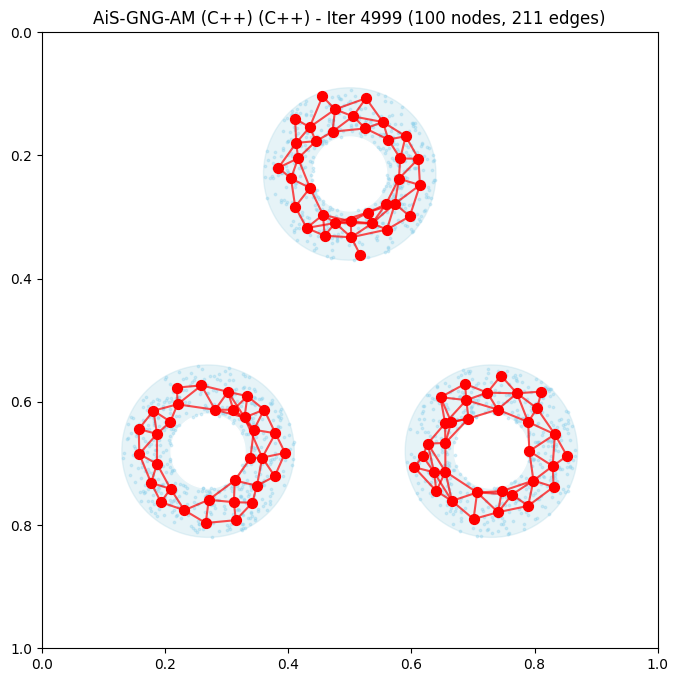
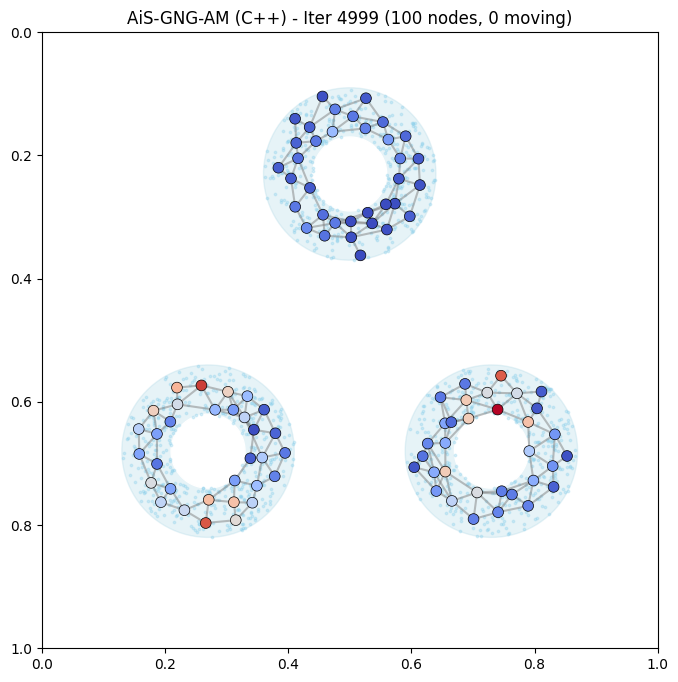
Fix AiS-GNG-AM visualization and reorganize README layout
- Add visualize_am.py for movement-colored node visualization
- Regenerate AiS-GNG-AM C++ GIF with movement colors (blue=static, red=moving)
- Reorganize README: separate sections for each variant with Python/C++/Tracking layout

https://claude.ai/code/session_017b5qWg6pcPoRsVDBckwGdS

diff --git a/experiments/2d_visualization/cpp/visualize_am.py b/experiments/2d_visualization/cpp/visualize_am.py
@@ -1,0 +1,182 @@
+"""Visualize AiS-GNG-AM results with movement-colored nodes.
+
+Nodes are colored by their Amount of Movement (AM):
+- Blue = static nodes (low AM)
+- Red = moving nodes (high AM)
+"""
+
+import argparse
+from pathlib import Path
+
+import matplotlib.pyplot as plt
+import numpy as np
+import pandas as pd
+from PIL import Image
+
+
+def load_samples(path: Path) -> np.ndarray:
+    """Load sample points from CSV."""
+    df = pd.read_csv(path)
+    return df[["x", "y"]].values
+
+
+def load_nodes_with_movement(path: Path) -> tuple[np.ndarray, np.ndarray]:
+    """Load node positions and movement values from CSV."""
+    if not path.exists():
+        return np.array([]).reshape(0, 2), np.array([])
+    df = pd.read_csv(path)
+    if len(df) == 0:
+        return np.array([]).reshape(0, 2), np.array([])
+
+    positions = df[["x", "y"]].values
+    if "movement" in df.columns:
+        movements = df["movement"].values
+    else:
+        movements = np.zeros(len(df))
+    return positions, movements
+
+
+def load_edges(path: Path) -> list[tuple[int, int]]:
+    """Load edge list from CSV."""
+    if not path.exists():
+        return []
+    df = pd.read_csv(path)
+    return [(int(row["i"]), int(row["j"])) for _, row in df.iterrows()]
+
+
+def create_frame_am(
+    ax,
+    samples: np.ndarray,
+    nodes: np.ndarray,
+    movements: np.ndarray,
+    edges: list[tuple[int, int]],
+    iteration: int,
+    algorithm: str = "AiS-GNG-AM",
+) -> None:
+    """Create a frame with movement-colored nodes."""
+    ax.clear()
+
+    # Draw triple ring background
+    theta = np.linspace(0, 2 * np.pi, 100)
+    rings = [
+        (0.50, 0.23, 0.06, 0.14),
+        (0.27, 0.68, 0.06, 0.14),
+        (0.73, 0.68, 0.06, 0.14),
+    ]
+    for cx, cy, r_inner, r_outer in rings:
+        outer_x = cx + r_outer * np.cos(theta)
+        outer_y = cy + r_outer * np.sin(theta)
+        inner_x = cx + r_inner * np.cos(theta)
+        inner_y = cy + r_inner * np.sin(theta)
+        ax.fill(outer_x, outer_y, color="lightblue", alpha=0.3)
+        ax.fill(inner_x, inner_y, color="white")
+
+    # Plot sample points
+    ax.scatter(samples[:, 0], samples[:, 1], c="skyblue", s=3, alpha=0.3)
+
+    # Plot edges (gray for AM visualization)
+    for i, j in edges:
+        if i < len(nodes) and j < len(nodes):
+            ax.plot(
+                [nodes[i, 0], nodes[j, 0]],
+                [nodes[i, 1], nodes[j, 1]],
+                color="gray",
+                linewidth=1.5,
+                alpha=0.5,
+            )
+
+    # Plot nodes colored by movement
+    if len(nodes) > 0:
+        if len(movements) > 0 and movements.max() > 0:
+            norm_movements = movements / max(movements.max(), 0.001)
+        else:
+            norm_movements = np.zeros(len(nodes))
+
+        scatter = ax.scatter(
+            nodes[:, 0], nodes[:, 1],
+            c=norm_movements,
+            cmap="coolwarm",
+            s=60,
+            zorder=5,
+            edgecolors="black",
+            linewidths=0.5,
+            vmin=0,
+            vmax=1,
+        )
+
+    n_moving = np.sum(movements > 0.005) if len(movements) > 0 else 0
+    ax.set_xlim(0, 1)
+    ax.set_ylim(1, 0)
+    ax.set_aspect("equal")
+    ax.set_title(f"{algorithm} (C++) - Iter {iteration} ({len(nodes)} nodes, {n_moving} moving)")
+
+
+def visualize_am(
+    input_dir: str,
+    output_gif: str,
+    output_png: str | None = None,
+    algorithm: str = "AiS-GNG-AM",
+) -> None:
+    """Create visualization with movement colors."""
+    input_path = Path(input_dir)
+
+    samples = load_samples(input_path / "samples.csv")
+    frames_df = pd.read_csv(input_path / "frames.csv")
+    frame_iterations = frames_df["iteration"].tolist()
+
+    fig, ax = plt.subplots(figsize=(8, 8), facecolor="white")
+    frames = []
+
+    for iteration in frame_iterations:
+        suffix = f"{iteration:05d}"
+        nodes, movements = load_nodes_with_movement(input_path / f"nodes_{suffix}.csv")
+        edges = load_edges(input_path / f"edges_{suffix}.csv")
+
+        create_frame_am(ax, samples, nodes, movements, edges, iteration, algorithm)
+        fig.canvas.draw()
+
+        img = Image.frombuffer(
+            "RGBA", fig.canvas.get_width_height(), fig.canvas.buffer_rgba()
+        )
+        frames.append(img.convert("RGB"))
+
+        if iteration % 1000 == 0 or iteration == frame_iterations[-1]:
+            print(f"Rendered frame at iteration {iteration}")
+
+    plt.close(fig)
+
+    if frames:
+        frames[0].save(
+            output_gif,
+            save_all=True,
+            append_images=frames[1:],
+            duration=100,
+            loop=0,
+        )
+        print(f"Saved GIF: {output_gif}")
+
+    if output_png:
+        final_nodes, final_movements = load_nodes_with_movement(input_path / "final_nodes.csv")
+        final_edges = load_edges(input_path / "final_edges.csv")
+
+        fig, ax = plt.subplots(figsize=(8, 8), facecolor="white")
+        create_frame_am(ax, samples, final_nodes, final_movements, final_edges,
+                       frame_iterations[-1], algorithm)
+        fig.savefig(output_png, dpi=100, bbox_inches="tight", facecolor="white")
+        plt.close(fig)
+        print(f"Saved PNG: {output_png}")
+
+
+def main():
+    parser = argparse.ArgumentParser(description="Visualize AiS-GNG-AM results")
+    parser.add_argument("input_dir", help="Directory with CSV output files")
+    parser.add_argument("--output", "-o", default="output.gif", help="Output GIF filename")
+    parser.add_argument("--png", default=None, help="Output PNG filename")
+    parser.add_argument("--algorithm", "-a", default="AiS-GNG-AM", help="Algorithm name")
+
+    args = parser.parse_args()
+    visualize_am(args.input_dir, args.output, args.png, args.algorithm)
+
+
+if __name__ == "__main__":
+    main()
